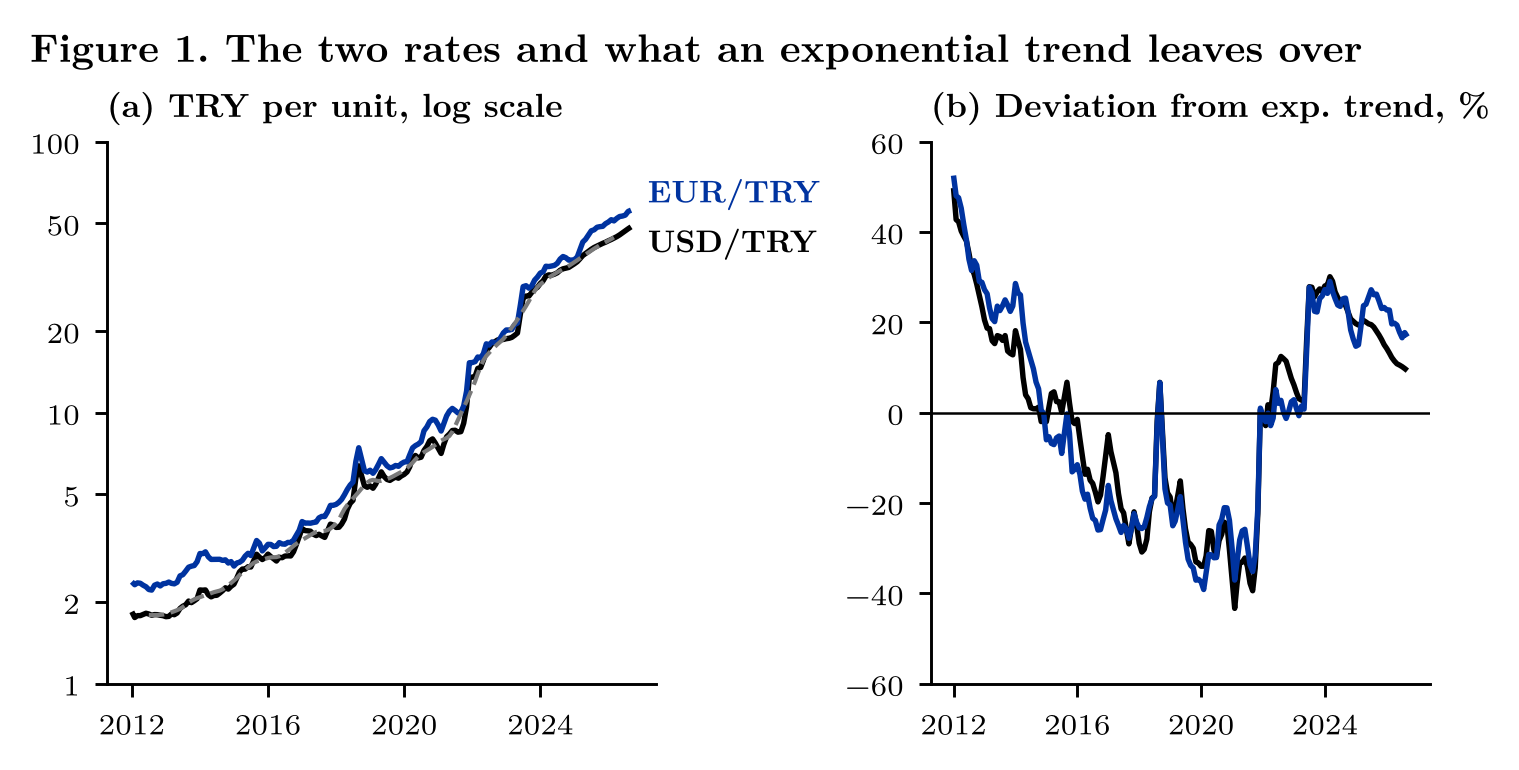
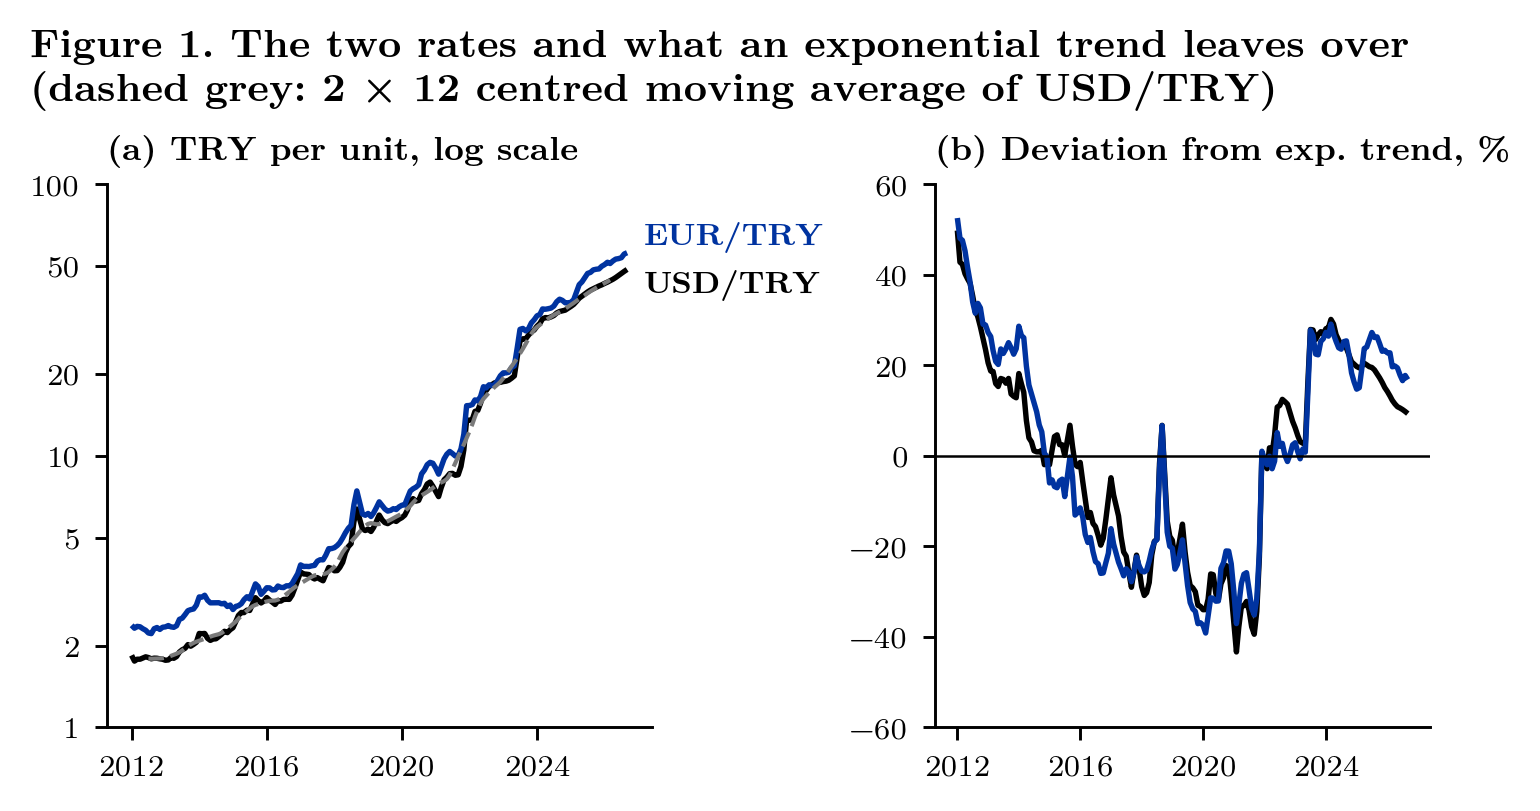
Version 2.0.1: dashed lines explained in figure headings

diff --git a/analysis/01_trend.py b/analysis/01_trend.py
@@ -70,4 +70,5 @@ def draw():
     return fig
 
 
-save_figure("fig1_trend", draw, lambda: "Figure 1. The two rates and what an exponential trend leaves over")
+save_figure("fig1_trend", draw, lambda: "Figure 1. The two rates and what an exponential trend leaves over "
+                    "(dashed grey: 2 × 12 centred moving average of USD/TRY)")

diff --git a/analysis/02_seasonality.py b/analysis/02_seasonality.py
@@ -53,4 +53,5 @@ def draw():
 
 
 save_figure("fig2_seasonality", draw,
-            lambda: "Figure 2. Mean monthly change by calendar month, with 95% intervals")
+            lambda: "Figure 2. Mean monthly change by calendar month, with 95% intervals "
+                    "(dashed: mean over all months)")

diff --git a/usdtrend/__init__.py b/usdtrend/__init__.py
@@ -5,4 +5,4 @@ from .data import basket, load, load_v1, log100
 from .methods import (METHODS, centered_ma, exp_trend, month_effects, rmse, rolling_forecast_errors,
                       trailing_ma)
 
-__version__ = "2.0.0"
+__version__ = "2.0.1"

diff --git a/NEWS.md b/NEWS.md
@@ -1,5 +1,14 @@
 # Changes
 
+## Version 2.0.1
+
+No result changed: every table and every number in the note is the same as in version 2.0.0.
+
+| # | Version 2.0.0 | Version 2.0.1 |
+|---|---|---|
+| 1 | The dashed lines in Figures 1 and 2 were explained in the note and the README, but not in the heading of the PNG files | The headings of `fig1_trend.png` and `fig2_seasonality.png` state what the dashed lines are |
+| 2 | The README caption of Figure 2 did not mention the dashed line | Caption completed |
+
 ## Version 2.0.0
 
 ### New

diff --git a/README.md b/README.md
@@ -31,7 +31,7 @@ the exponential trend, per cent.
 **There is no monthly seasonality.** The monthly change does not differ by calendar month: F test of 11 month dummies
 $p$ = 0.86 (USD) and 0.60 (EUR), Kruskal–Wallis $p$ = 0.65 and 0.63.
 
-**Figure 2.** Mean monthly change in each calendar month, with 95% intervals.
+**Figure 2.** Mean monthly change in each calendar month, with 95% intervals; dashed: mean over all months.
 
 ![Figure 2](figures/fig2_seasonality.png)
 
